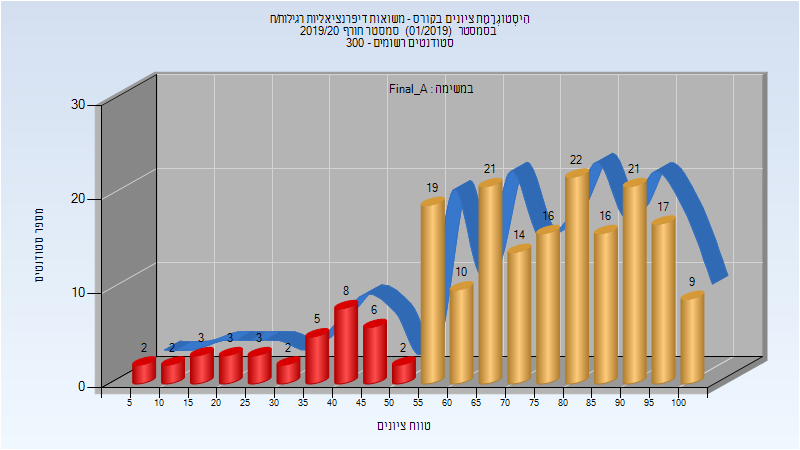
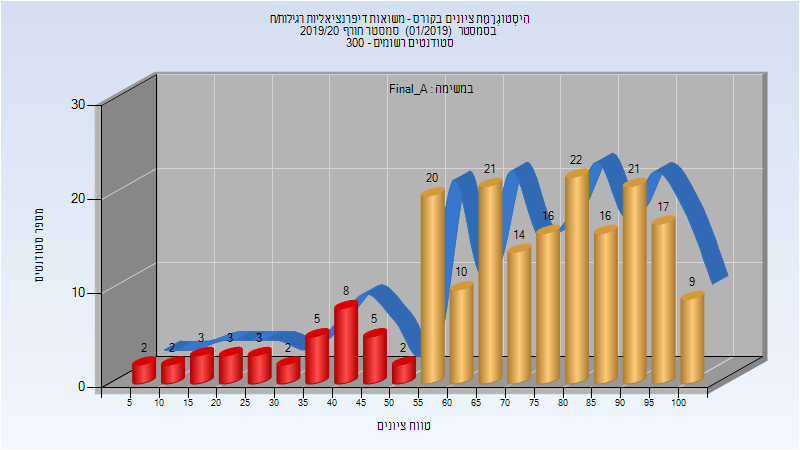
Deploy michael-maltsev/technion-histograms to github.com/michael-maltsev/technion-histograms.git:gh-pages

Changed region(s): [[0.4375, 0.6222, 0.5312, 0.7778], [0.5, 0.3733, 0.5938, 0.4667], [0.5625, 0.4667, 0.5938, 0.5289]]

diff --git a/104131/index.html b/104131/index.html
@@ -1915,6 +1915,10 @@
 <td>מרצה - אחראי מקצוע</td>
 </tr>
 <tr>
+<td>ולך נתן שמע</td>
+<td>מתרגל</td>
+</tr>
+<tr>
 <td>ליטבינוב גלינה</td>
 <td>מתרגל</td>
 </tr>
@@ -1941,7 +1945,7 @@
 <td>74</td>
 <td>5</td>
 <td>99</td>
-<td>66.542</td>
+<td>66.582</td>
 <td>70</td>
 </tr>
 </tbody>
@@ -1963,12 +1967,64 @@
 <tbody>
 <tr>
 <td>201</td>
-<td>165/36</td>
-<td>82</td>
+<td>166/35</td>
+<td>83</td>
 <td>8</td>
 <td>100</td>
-<td>70.806</td>
+<td>70.846</td>
 <td>75</td>
+</tr>
+</tbody>
+</table>
+<h3>מבחן מועד ב'</h3>
+<p><img src="201901/Exam_B.png" alt="201901 Exam_B" /></p>
+<table>
+<thead>
+<tr>
+<th>סטודנטים</th>
+<th>עברו/נכשלו</th>
+<th>אחוז עוברים</th>
+<th>ציון מינימלי</th>
+<th>ציון מקסימלי</th>
+<th>ממוצע</th>
+<th>חציון</th>
+</tr>
+</thead>
+<tbody>
+<tr>
+<td>96</td>
+<td>77/19</td>
+<td>80</td>
+<td>27</td>
+<td>100</td>
+<td>69.594</td>
+<td>70</td>
+</tr>
+</tbody>
+</table>
+<h3>סופי מועד ב'</h3>
+<p><img src="201901/Final_B.png" alt="201901 Final_B" /></p>
+<table>
+<thead>
+<tr>
+<th>סטודנטים</th>
+<th>עברו/נכשלו</th>
+<th>אחוז עוברים</th>
+<th>ציון מינימלי</th>
+<th>ציון מקסימלי</th>
+<th>ממוצע</th>
+<th>חציון</th>
+</tr>
+</thead>
+<tbody>
+<tr>
+<td>96</td>
+<td>82/14</td>
+<td>85</td>
+<td>28</td>
+<td>100</td>
+<td>70.177</td>
+<td>70</td>
 </tr>
 </tbody>
 </table>
@@ -1989,12 +2045,12 @@
 <tbody>
 <tr>
 <td>202</td>
-<td>166/36</td>
-<td>82</td>
+<td>169/33</td>
+<td>84</td>
 <td>8</td>
 <td>100</td>
-<td>70.802</td>
-<td>74.5</td>
+<td>71.53</td>
+<td>75</td>
 </tr>
 </tbody>
 </table>

diff --git a/104131/README.md b/104131/README.md
@@ -601,6 +601,7 @@
 | איש סגל | תפקיד |
 | ---- | ---- |
 | קרוש-ברם מרינה | מרצה - אחראי מקצוע |
+| ולך נתן שמע | מתרגל |
 | ליטבינוב גלינה | מתרגל |
 
 ### מבחן מועד א'
@@ -609,7 +610,7 @@
 
 | סטודנטים | עברו/נכשלו | אחוז עוברים | ציון מינימלי | ציון מקסימלי | ממוצע | חציון |
 | ---- | ---- | ---- | ---- | ---- | ---- | ---- |
-| 201 | 148/53 | 74 | 5 | 99 | 66.542 | 70 |
+| 201 | 148/53 | 74 | 5 | 99 | 66.582 | 70 |
 
 ### סופי מועד א'
 
@@ -617,7 +618,23 @@
 
 | סטודנטים | עברו/נכשלו | אחוז עוברים | ציון מינימלי | ציון מקסימלי | ממוצע | חציון |
 | ---- | ---- | ---- | ---- | ---- | ---- | ---- |
-| 201 | 165/36 | 82 | 8 | 100 | 70.806 | 75 |
+| 201 | 166/35 | 83 | 8 | 100 | 70.846 | 75 |
+
+### מבחן מועד ב'
+
+![201901 Exam_B](201901/Exam_B.png)
+
+| סטודנטים | עברו/נכשלו | אחוז עוברים | ציון מינימלי | ציון מקסימלי | ממוצע | חציון |
+| ---- | ---- | ---- | ---- | ---- | ---- | ---- |
+| 96 | 77/19 | 80 | 27 | 100 | 69.594 | 70 |
+
+### סופי מועד ב'
+
+![201901 Final_B](201901/Final_B.png)
+
+| סטודנטים | עברו/נכשלו | אחוז עוברים | ציון מינימלי | ציון מקסימלי | ממוצע | חציון |
+| ---- | ---- | ---- | ---- | ---- | ---- | ---- |
+| 96 | 82/14 | 85 | 28 | 100 | 70.177 | 70 |
 
 ### סופי
 
@@ -625,7 +642,7 @@
 
 | סטודנטים | עברו/נכשלו | אחוז עוברים | ציון מינימלי | ציון מקסימלי | ממוצע | חציון |
 | ---- | ---- | ---- | ---- | ---- | ---- | ---- |
-| 202 | 166/36 | 82 | 8 | 100 | 70.802 | 74.5 |
+| 202 | 169/33 | 84 | 8 | 100 | 71.53 | 75 |
 
 ## אביב 2020
 
